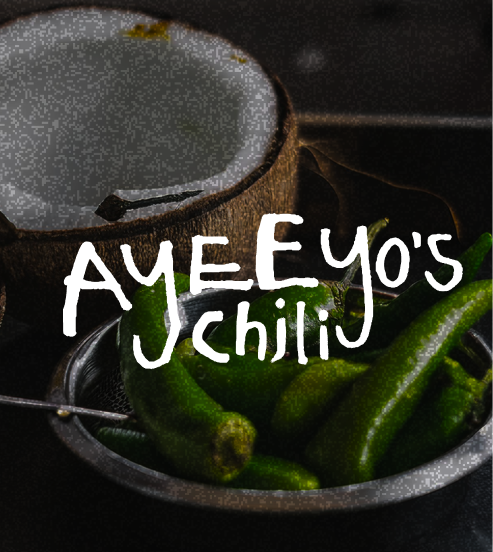
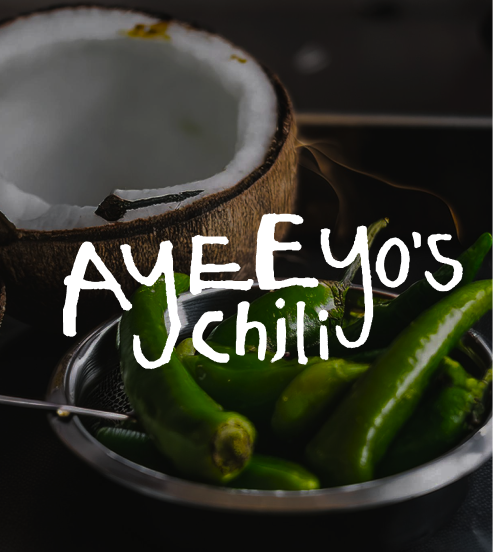
Show work images in original color

diff --git a/src/styles.css b/src/styles.css
@@ -246,7 +246,6 @@ body {
   will-change: transform;
   transition:
     box-shadow 260ms ease,
-    filter 260ms ease,
     transform 260ms ease;
 }
 
@@ -261,7 +260,6 @@ body {
 
 .works-card:hover,
 .works-card:focus-visible {
-  filter: brightness(1.08) saturate(1.02);
   transform: translate(-50%, -50%) scale(1.045);
   box-shadow:
     0 calc(18px + var(--work-card-depth) * 16px) calc(42px + var(--work-card-depth) * 36px) rgba(0, 0, 0, calc(0.38 + var(--work-card-depth) * 0.08)),
@@ -278,18 +276,13 @@ body {
   width: 100%;
   height: 100%;
   object-fit: cover;
-  opacity: 0.92;
-  mix-blend-mode: luminosity;
-  transition:
-    mix-blend-mode 260ms ease,
-    opacity 260ms ease,
-    transform 460ms ease;
+  opacity: 1;
+  mix-blend-mode: normal;
+  transition: transform 460ms ease;
 }
 
 .works-card:hover img,
 .works-card:focus-visible img {
-  opacity: 1;
-  mix-blend-mode: normal;
   transform: scale(1.035);
 }
 
